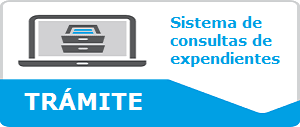
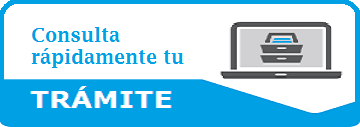
add img tramite_documentario

diff --git a/resources/views/intranet/mantenimientos/ficha_matricula.blade.php b/resources/views/intranet/mantenimientos/ficha_matricula.blade.php
@@ -33,7 +33,7 @@
                                     <th>Alumno</th>
                                     <th>Dni</th>
                                     <th>PEM</th>
-                                    <th>Acciones</th>
+                                    <th style="width: 300px;">Acciones</th>
                                 </tr>
                                 </thead>
                                 <tbody>
@@ -190,11 +190,17 @@
                 success: function (data) {
                     t.clear().draw();
                     $.each(data, function (index, value) {
+                        var habilitar_edicion="";
+                        if(value["imprimir"])
+                            habilitar_edicion="<button onclick=habilitarEdicionFicha("+value['id']+",'"+value['pem']+"','"+value['alumno_numero_documento']+"') class='btn btn-xs'><i class='fa fa-check'></i> Habilitar Edición</button>";
+
                         t.row.add([value['alumno_apellido_paterno']+' '+value['alumno_apellido_materno']+' '+value['alumno_nombres'],
                             value['alumno_numero_documento'],value['pem'],
                             "<button onclick=buscarFicha("+value['id']+") class='btn btn-xs'><i class='fa fa-search'></i></button>"+
                             "<button onclick=eliminarFicha("+value['id']+") class='btn btn-xs'><i class='fa fa-trash-o'></i></button>"+
                             "<button onclick=editarFicha("+value['id']+") class='btn btn-xs'><i class='fa fa-edit'></i></button>"+
+                            "<button onclick=imprimirFicha("+value['id']+") class='btn btn-xs'><i class='fa fa-print'></i></button>"+
+                                    habilitar_edicion+
                             "<button onclick=enviarSms_Ficha("+value['id']+") class='btn btn-xs'><i class='fa fa-mobile-phone'></i></button>"
                             , grupo_opciones(value['id'])]).draw(false);
                     });
@@ -331,6 +337,34 @@
                     },
                     success: function (data) {
                         notificacion('Actualización', 'Datos actualizados correctamente', 'success');
+                        cancelar();
+                    },
+                    error: function (request, status, error) {
+                        mostrar_error(request.responseText);
+                    },
+                    complete: function () {
+                        $("#loading").hide();
+                    }
+                });
+            }
+        }
+
+        function habilitarEdicionFicha(id,pem,alumno_numero_documento) {
+            if (confirm("¿Deseas habilitar el documento para edición?")) {
+                var info = [{"_token": "{{ csrf_token() }}",
+                    "id" : id,
+                    "pem": pem,
+                    "alumno_numero_documento": alumno_numero_documento
+                }][0];
+                $.ajax({
+                    url: "/intranet/mantenimientos/ficha_matricula/habilitar_edicion",
+                    type: "GET",
+                    data: info,
+                    beforeSend: function () {
+                        $("#loading").show();
+                    },
+                    success: function (data) {
+                        $("#modMsje").modal('show');
                         cancelar();
                     },
                     error: function (request, status, error) {

diff --git a/resources/views/intranet/website/institucion.blade.php b/resources/views/intranet/website/institucion.blade.php
@@ -54,12 +54,15 @@
                                 </div>
                                 <div class="col-md-6">
                                     <div class="row">
-                                        <label class="col-md-2" for="txtAnio_Ficha">Anio Ficha</label>
-                                        <div class="col-md-2">
-                                            <input type="text" class="form-control" id="txtAnio_Ficha" placeholder="Empresa">
+                                        <label class="col-md-1" for="txtAnio_Ficha">Anio Ficha</label>
+                                        <div class="col-md-1">
+                                            <input type="text" style="width:50px;" class="form-control" id="txtAnio_Ficha" placeholder="Empresa">
                                         </div>
-                                        <div class="col-md-6">
+                                        <div class="col-md-5" style="text-align: right;">
                                             <label for=""><input id="chkMostrar_Ficha" type="checkbox" class="icheck"> Mostrar Ficha de Matrícula</label>
+                                        </div>
+                                        <div class="col-md-5">
+                                            <label for=""><input id="chkMostrar_Tramite" type="checkbox" class="icheck"> Mostrar Consulta de Trámite</label>
                                         </div>
                                     </div>
                                     <div class="row">
@@ -125,6 +128,7 @@
                 "porque_nosotros_3": $("#txtPorque_Nosotros3").val(),
                 "porque_nosotros_4": $("#txtPorque_Nosotros4").val(),
                 "mostrar_ficha": $("#chkMostrar_Ficha").is(":checked"),
+                "mostrar_tramite": $("#chkMostrar_Tramite").is(":checked"),
                 "anio_ficha": parseInt($("#txtAnio_Ficha").val())}][0];
             return info;
         }
@@ -176,6 +180,7 @@
                         $("#txtPorque_Nosotros4").val(value["porque_nosotros_4"]);
                         $("#txtAnio_Ficha").val(value["anio_ficha"]);
                         $("#chkMostrar_Ficha").iCheck(value['mostrar_ficha'] == true ? "check" : "uncheck");
+                        $("#chkMostrar_Tramite").iCheck(value['mostrar_tramite'] == true ? "check" : "uncheck");
                     });
                 },
                 error: function (request, status, error) {

diff --git a/resources/views/intranet/principal.blade.php b/resources/views/intranet/principal.blade.php
@@ -84,7 +84,13 @@
                         </li>
                     </ul>
                 </li>
-                <li class="dropdown"><a href="#" data-toggle="dropdown" class="dropdown-toggle">Mantenimiento <b
+                <li class="dropdown"><a href="#" data-toggle="dropdown" class="dropdown-toggle">Administrativo<b
+                                class="caret"></b></a>
+                    <ul class="dropdown-menu">
+                        <li><a href="/intranet/mantenimientos/documento_recepcionado">Registrar Documento</a></li>
+                    </ul>
+                </li>
+                <li class="dropdown pull-right"><a href="#" data-toggle="dropdown" class="dropdown-toggle"><i class='fa fa-cog'></i> Configuración<b
                                 class="caret"></b></a>
                     <ul class="dropdown-menu">
                         <li><a href="/intranet/mantenimientos/categoria_trabajador">Categoria de Trabajador</a></li>
@@ -92,6 +98,7 @@
                         <li><a href="/intranet/mantenimientos/especialidad">Especialidades</a></li>
                         <li><a href="/intranet/mantenimientos/colegio_procedencia">Colegios de Procedencia</a></li>
                         <li><a href="/intranet/mantenimientos/parentesco">Parentesco</a></li>
+                        <li><a href="/intranet/mantenimientos/tipo_documento_recepcionado">Tipo de Documento R.</a></li>
                     </ul>
                 </li>
                 <li class="dropdown"><a href="#" data-toggle="dropdown" class="dropdown-toggle">Website <b

diff --git a/resources/views/website/principal.blade.php b/resources/views/website/principal.blade.php
@@ -208,6 +208,13 @@
                             </div>
                         </div>
                     @endif
+                        @if($institucion->mostrar_tramite == true)
+                            <div class="row" onclick="javascript:location.href='consulta_tramite'" style="margin-bottom: 8px;">
+                                <div class="col-xs-12">
+                                    <img style="cursor:pointer;" class='img-reponsive' src="/royal/img/tramite_documentario.png">
+                                </div>
+                            </div>
+                        @endif
                     <div class="formArea clearfix">
                         <div class="formTitle">
                             <img src="/royal/img/hay_tarea.png">
@@ -230,7 +237,9 @@
                     <?php
                         $altura_eventos=0;
                         if($institucion->mostrar_ficha)
-                            $altura_eventos=105;
+                            $altura_eventos +=105;
+                        if($institucion->mostrar_tramite)
+                            $altura_eventos +=100;
                     ?>
                     <div class="list_block related_post_sec" style="height: {{ (526-$altura_eventos) }}px;margin: 10px 0 5px;padding:15px 5px 5px 5px;">
                         <div class="upcoming_events" style="height:{{ (453-$altura_eventos) }}px;">

diff --git a/database/migrations/2017_07_18_111901_creacion_tabla_puesto_trabajo.php b/database/migrations/2017_07_18_111901_creacion_tabla_puesto_trabajo.php
@@ -1,0 +1,45 @@
+<?php
+
+use Illuminate\Support\Facades\Schema;
+use Illuminate\Database\Schema\Blueprint;
+use Illuminate\Database\Migrations\Migration;
+
+class CreacionTablaPuestoTrabajo extends Migration
+{
+    /**
+     * Run the migrations.
+     *
+     * @return void
+     */
+    public function up()
+    {
+        Schema::create('puesto_trabajo', function (Blueprint $table) {
+            $table->increments('id');
+            $table->string('nombre');
+
+            //Responsables
+            $table->integer('primer_trabajador_id')->unsigned()->nullable();
+            $table->foreign('trabajador_id')->references('id')->on('trabajador');
+
+            $table->integer('segundo_trabajador_id')->unsigned()->nullable();
+            $table->foreign('trabajador_id')->references('id')->on('trabajador');
+
+            $table->integer('tercer_trabajador_id')->unsigned()->nullable();
+            $table->foreign('trabajador_id')->references('id')->on('trabajador');
+
+            $table->boolean('permiso_registro')->default(true);
+
+            $table->timestamps();
+        });
+    }
+
+    /**
+     * Reverse the migrations.
+     *
+     * @return void
+     */
+    public function down()
+    {
+        Schema::dropIfExists('puesto_trabajo');
+    }
+}

diff --git a/database/migrations/2017_07_18_111902_creacion_tabla_tipo_documento_recepcionado.php b/database/migrations/2017_07_18_111902_creacion_tabla_tipo_documento_recepcionado.php
@@ -1,0 +1,32 @@
+<?php
+
+use Illuminate\Support\Facades\Schema;
+use Illuminate\Database\Schema\Blueprint;
+use Illuminate\Database\Migrations\Migration;
+
+class CreacionTablaTipoDocumentoRecepcionado extends Migration
+{
+    /**
+     * Run the migrations.
+     *
+     * @return void
+     */
+    public function up()
+    {
+        Schema::create('tipo_documento_recepcionado', function (Blueprint $table) {
+            $table->increments('id');
+            $table->string('nombre');
+            $table->timestamps();
+        });
+    }
+
+    /**
+     * Reverse the migrations.
+     *
+     * @return void
+     */
+    public function down()
+    {
+        Schema::dropIfExists('tipo_documento_recepcionado');
+    }
+}

diff --git a/app/Http/Controllers/Ficha_Matricula_Controller.php b/app/Http/Controllers/Ficha_Matricula_Controller.php
@@ -204,6 +204,14 @@ class Ficha_Matricula_Controller extends Controller
             $ficha_matricula->save();
         }
     }
+
+    public function habilitar_edicion(){
+        $ficha_matricula = \App\Ficha_Matricula::find(Input::get('id'));
+        if($ficha_matricula->pem == Input::get('pem') && $ficha_matricula->alumno_numero_documento == Input::get('alumno_numero_documento')){
+            $ficha_matricula->imprimir=false;
+            $ficha_matricula->save();
+        }
+    }
     public function destroy($id)
     {
         $ficha_matricula = \App\Ficha_Matricula::find($id);

diff --git a/app/Institucion.php b/app/Institucion.php
@@ -8,7 +8,7 @@ class Institucion extends Model
 {
     protected $table = "institucion";
 
-    protected $fillable = ['telefonos','correo','ciudad','direccion','link_mapa','bienvenida_texto','bienvenida_url','porque_nosotros_1','porque_nosotros_2','porque_nosotros_3','porque_nosotros_4','anio_ficha','mostrar_ficha'];
+    protected $fillable = ['telefonos','correo','ciudad','direccion','link_mapa','bienvenida_texto','bienvenida_url','porque_nosotros_1','porque_nosotros_2','porque_nosotros_3','porque_nosotros_4','anio_ficha','mostrar_ficha','mostrar_tramite'];
 
 
 }

diff --git a/routes/web.php b/routes/web.php
@@ -90,6 +90,8 @@ Route::group(['prefix'=>'intranet/mantenimientos'], function () {
 
     Route::get('ficha_matricula/imprimir', ['uses' => 'Ficha_Matricula_Controller@imprimir', 'as' => 'ficha_matricula.imprimir']);
 
+    Route::get('ficha_matricula/habilitar_edicion', ['uses' => 'Ficha_Matricula_Controller@habilitar_edicion', 'as' => 'ficha_matricula.habilitar_edicion']);
+
     Route::resource('ficha_matricula','\App\Http\Controllers\Ficha_Matricula_Controller');
 
     Route::resource('tipo_documento','\App\Http\Controllers\Tipo_Documento_Controller');

diff --git a/app/Http/Controllers/Institucion_Controller.php b/app/Http/Controllers/Institucion_Controller.php
@@ -81,6 +81,7 @@ class Institucion_Controller extends Controller
         $institucion->porque_nosotros_4= $request->input('porque_nosotros_4');
         $institucion->anio_ficha = $request->input('anio_ficha');
         $institucion->mostrar_ficha = $request->input('mostrar_ficha');
+        $institucion->mostrar_tramite = $request->input('mostrar_tramite');
 
         $institucion->save();
     }

diff --git a/database/migrations/2017_05_16_102504_creacion_tabla_institucion.php b/database/migrations/2017_05_16_102504_creacion_tabla_institucion.php
@@ -28,6 +28,7 @@ class CreacionTablaInstitucion extends Migration
             $table->string('porque_nosotros_4')->nullable();
             $table->integer('anio_ficha')->default(2017);
             $table->boolean('mostrar_ficha')->default(false);
+            $table->boolean('mostrar_tramite')->default(false);
             $table->timestamps();
         });
     }
